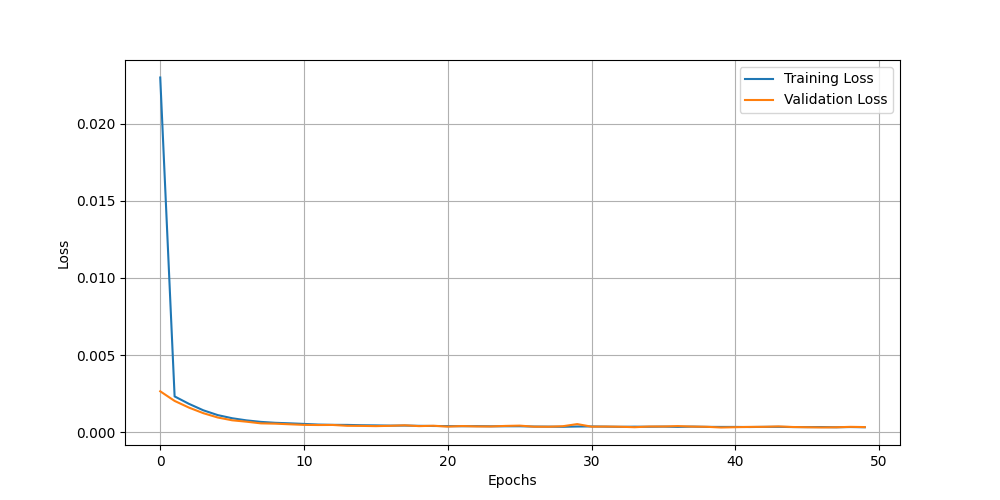
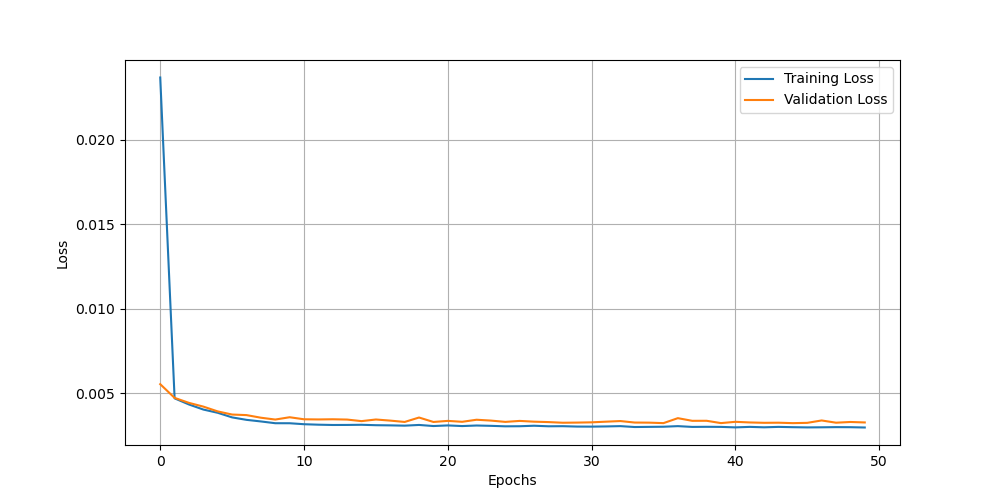
Trained with 0.1 error probability: evaluated probability distributions.

diff --git a/scripts/evaluate.py b/scripts/evaluate.py
@@ -6,8 +6,8 @@ import matplotlib.pyplot as plt
 
 
 # params
-MODEL_FILE = 'models/model_2q_d5.pth'
-TEST_DATA_FILE = 'data/testing_dataset_2q_d5.npz'
+MODEL_FILE = 'models/model_2q_d10_01.pth'
+TEST_DATA_FILE = 'data/testing_dataset_2q_d1001.npz'
 NUM_SAMPLES_TO_PLOT = 3 # How many example plots to generate
 
 # redefine the model
@@ -94,6 +94,6 @@ if __name__ == "__main__":
         ax.legend()
         
         plt.tight_layout()
-        plt.savefig(f'figures/evaluation_sample_{i+1}.png')
+        plt.savefig(f'figures/2q_d10_01_evaluation_samples/evaluation_sample_{i+1}.png')
         
     print(f"Plots saved in 'figures/' directory.")

diff --git a/scripts/data_generation.py b/scripts/data_generation.py
@@ -13,11 +13,11 @@ from tqdm import tqdm
 NUM_QUBITS = 2 
 # number of layers of gates in each circuit
 CIRCUIT_DEPTH = 10 # increased from five for round 2
-NUM_SAMPLES = 5000
+NUM_SAMPLES = 1000
 SHOTS = 1024
 # probability of depolarizing error for each gate
-ERROR_PROB = 0.05 
-OUTPUT_FILE = f'data/dataset_{NUM_QUBITS}q_d{CIRCUIT_DEPTH}.npz'
+ERROR_PROB = 0.1
+OUTPUT_FILE = f'data/testing_dataset_{NUM_QUBITS}q_d{CIRCUIT_DEPTH}01.npz'
 
 
 # define random circuit generation function

diff --git a/scripts/training.py b/scripts/training.py
@@ -12,8 +12,8 @@ import matplotlib.pyplot as plt
 
 
 # define configuration params
-DATASET_FILE = 'data/dataset_2q_d5.npz'  # path to the dataset file
-MODEL_OUTPUT_FILE = 'models/model0.pth'
+DATASET_FILE = 'data/dataset_2q_d1001.npz'  # path to the dataset file
+MODEL_OUTPUT_FILE = 'models/model_2q_d10_01.pth'
 EPOCHS = 50
 BATCH_SIZE = 32
 LEARNING_RATE = 0.001
